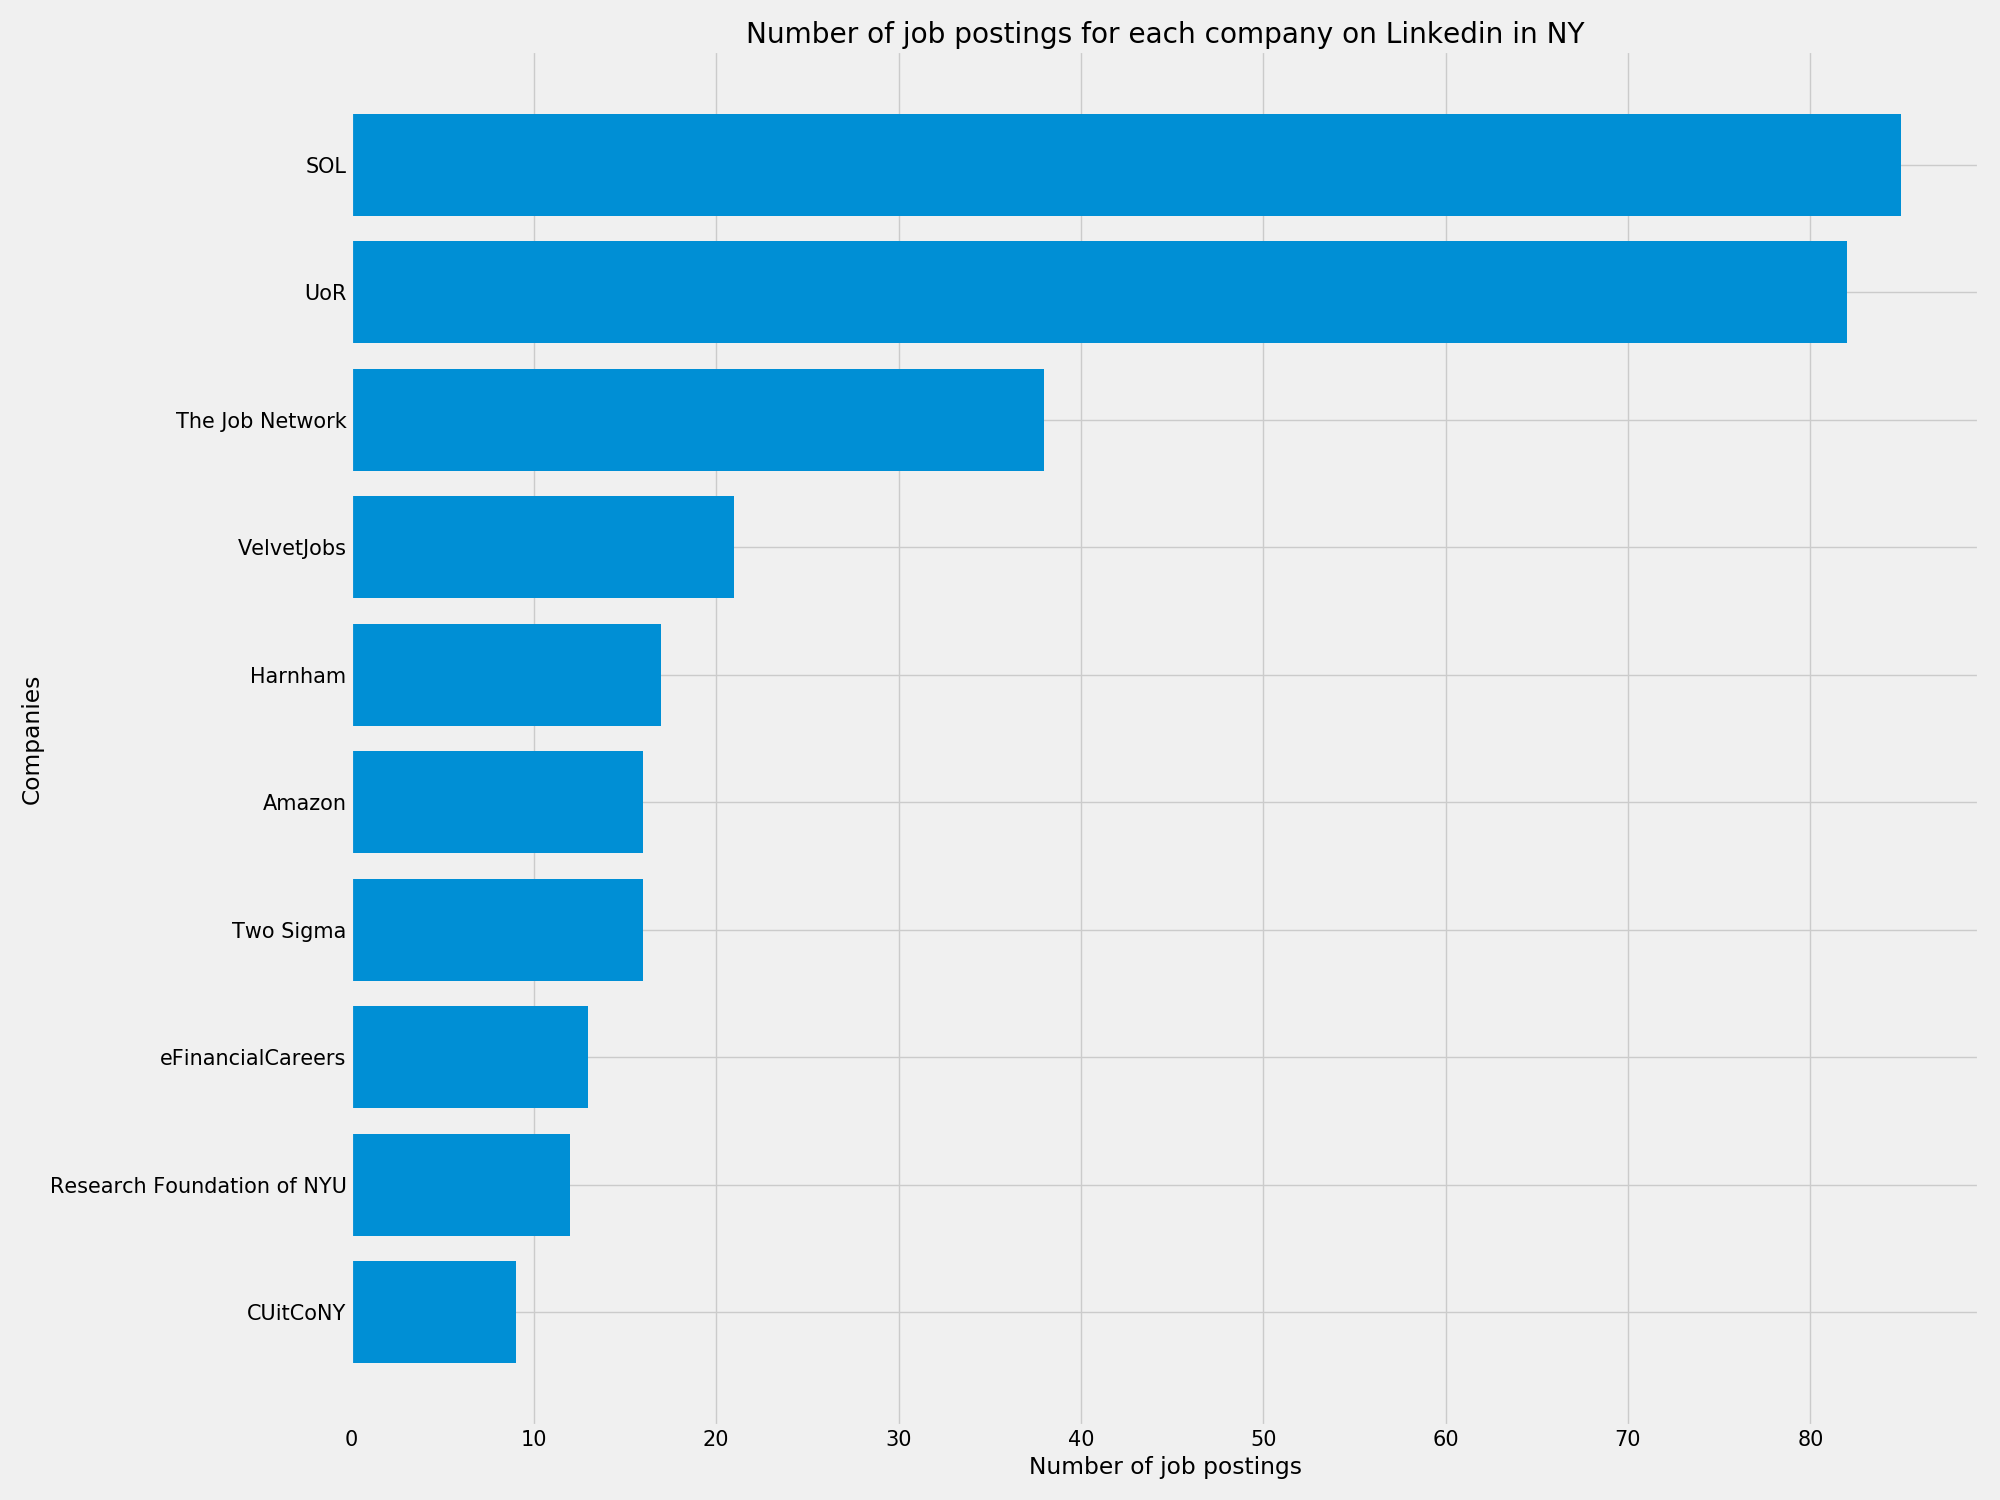
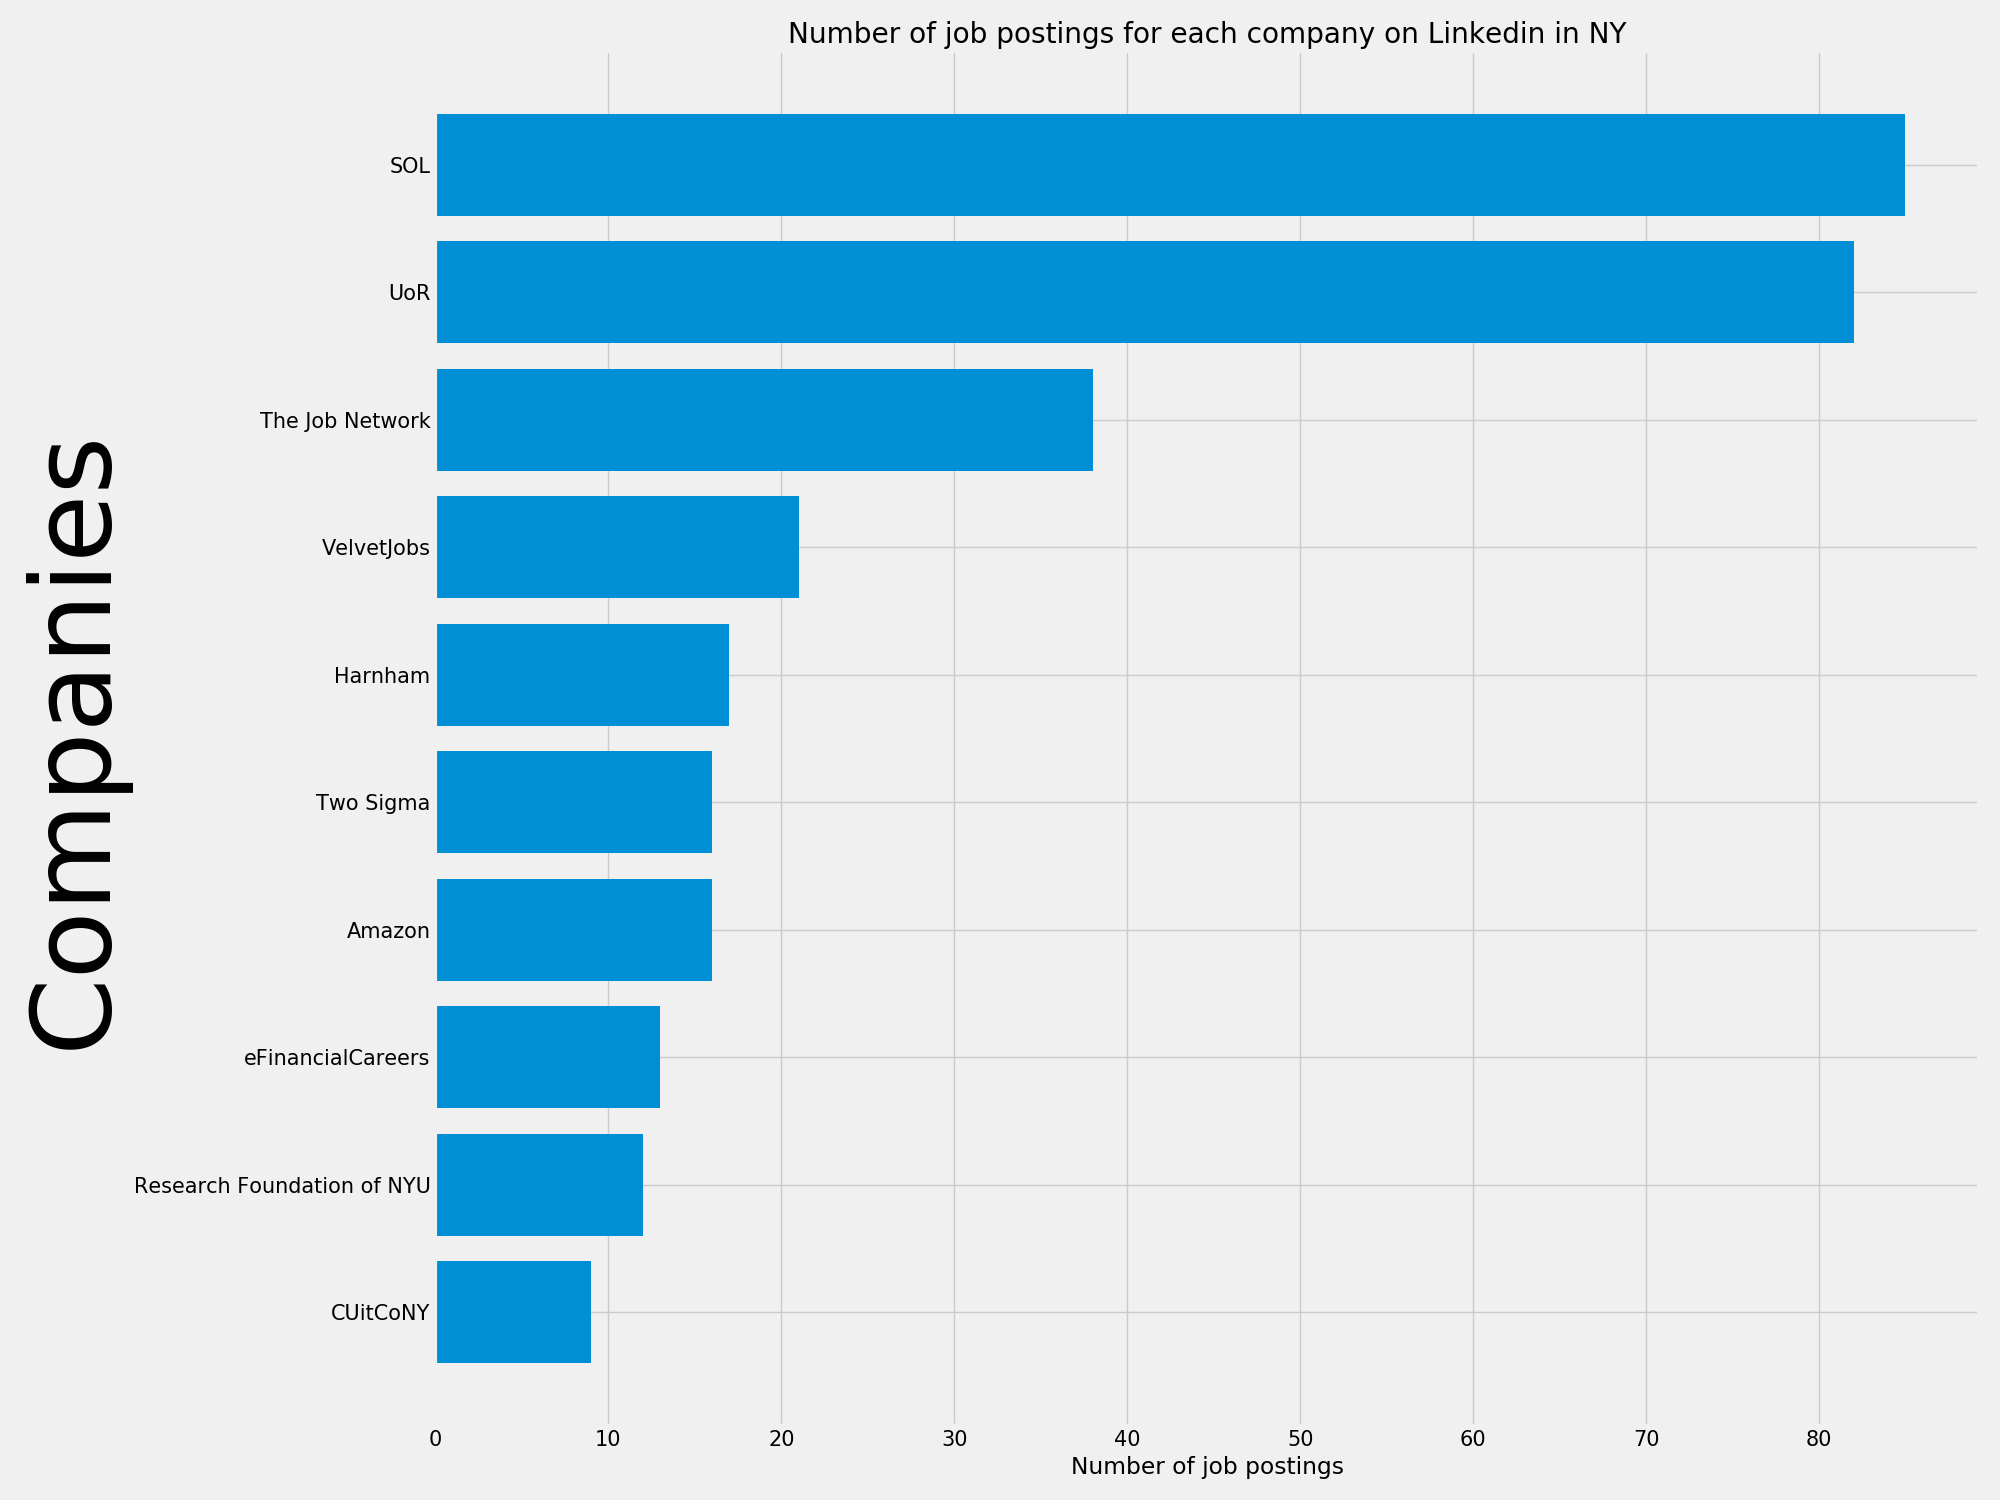
Messing with last graphs

diff --git a/src/graphing_eda.py b/src/graphing_eda.py
@@ -124,7 +124,7 @@ def graph_top10_companies(state_id):
     ax.barh(companies_state, jobs_state)
 
     ax.set_xlabel('Number of job postings')
-    ax.set_ylabel('Companies')
+    ax.set_ylabel('Companies', fontsize=80)
     ax.set_title(f'Number of job postings for each company on Linkedin in {state_id}')
     ax.tick_params(labelsize = 15)
     
